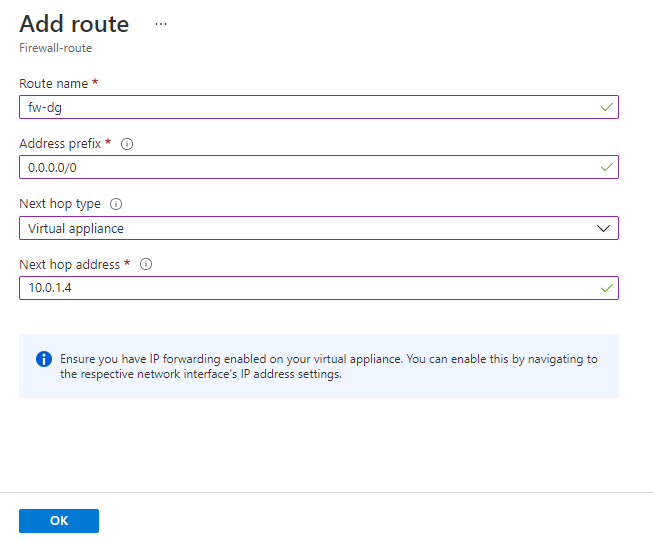
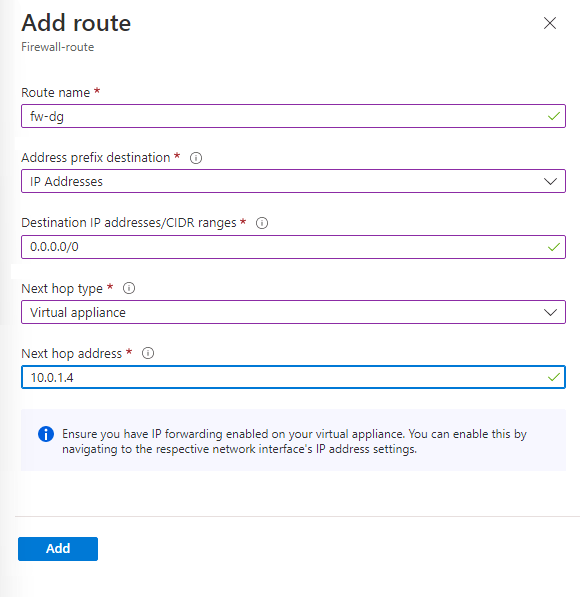
Update M03-Unit 5 Provision an ExpressRoute circuit.md # Module: 00 ## Lab/Demo: 00
Fixes # .

Changes proposed in this pull request:

-
-
-

diff --git a/Instructions/Exercises/M05-Unit 4 Deploy Azure application gateway.md b/Instructions/Exercises/M05-Unit 4 Deploy Azure application gateway.md
@@ -100,19 +100,19 @@ In this exercise, you will:
 
 21. On the **Backend targets** tab, enter or select the following information:
 
-    | **Setting**   | **Value**      |
-    | ------------- | -------------- |
-    | Target type   | Backend pool   |
-    | HTTP Settings | **Add new** |
+    | **Setting**      | **Value**      |
+    | -------------    | -------------- |
+    | Target type      | Backend pool   |
+    | Backend Settings | **Add new** |
 
-22. In **Add a HTTP setting**, enter or select the following information:
+22. In **Add a Backend Setting**, enter or select the following information:
 
-    | **Setting**        | **Value**   |
-    | ------------------ | ----------- |
-    | HTTP settings name | HTTPSetting |
-    | Backend port       | 80          |
+    | **Setting**          | **Value**   |
+    | ------------------   | ----------- |
+    | Backend setting name | HTTPSetting |
+    | Backend port         | 80          |
 
-23. Accept the default values for the other settings in the **Add an HTTP setting** window, then select **Add** to return to **Add a routing rule**.
+23. Accept the default values for the other settings in the **Add a Backend Setting** window, then select **Add** to return to **Add a routing rule**.
 
 24. Select **Add** to save the routing rule and return to the **Configuration** tab.
 

diff --git a/Instructions/Exercises/M06-Unit 7 Deploy and configure Azure Firewall using the Azure portal.md b/Instructions/Exercises/M06-Unit 7 Deploy and configure Azure Firewall using the Azure portal.md
@@ -129,7 +129,7 @@ In this task, you will deploy the firewall into the virtual network with a firew
    | Resource group       | **Test-FW-RG**                                               |
    | Firewall name        | **Test-FW01**                                                |
    | Region               | Your region                                                  |
-   | Firewall tier        | **Standard**                                                 |
+   | Firewall SKU        | **Standard**                                                 |
    | Firewall management  | **Use a Firewall Policy to manage this firewall**            |
    | Firewall policy      | Select **Add new**<br />Name: **fw-test-pol**<br />Region: **your region** |
 
@@ -200,7 +200,7 @@ In this task, on the Workload-SN subnet, you will configure the outbound default
 
 12. In **Route name**, enter **fw-dg**.
 
-13. In **Address prefix**, enter **0.0.0.0/0**.
+13. In **Address prefix destination**, enter **0.0.0.0/0**.
 
 14. In **Next hop type**, select **Virtual appliance**.
 

diff --git a/Instructions/Exercises/M07-Unit 5 Restrict network access to PaaS resources with virtual network service endpoints.md b/Instructions/Exercises/M07-Unit 5 Restrict network access to PaaS resources with virtual network service endpoints.md
@@ -229,7 +229,7 @@ By default, storage accounts accept network connections from clients in any netw
 
 1. Under **Security + networking** for the storage account, select **Networking**.
 
-2. Select **Selected networks**.
+2. Select **Enabled from selected virtual networks and IP addresses**.
 
 3. Select **+Add existing virtual network**.
 
